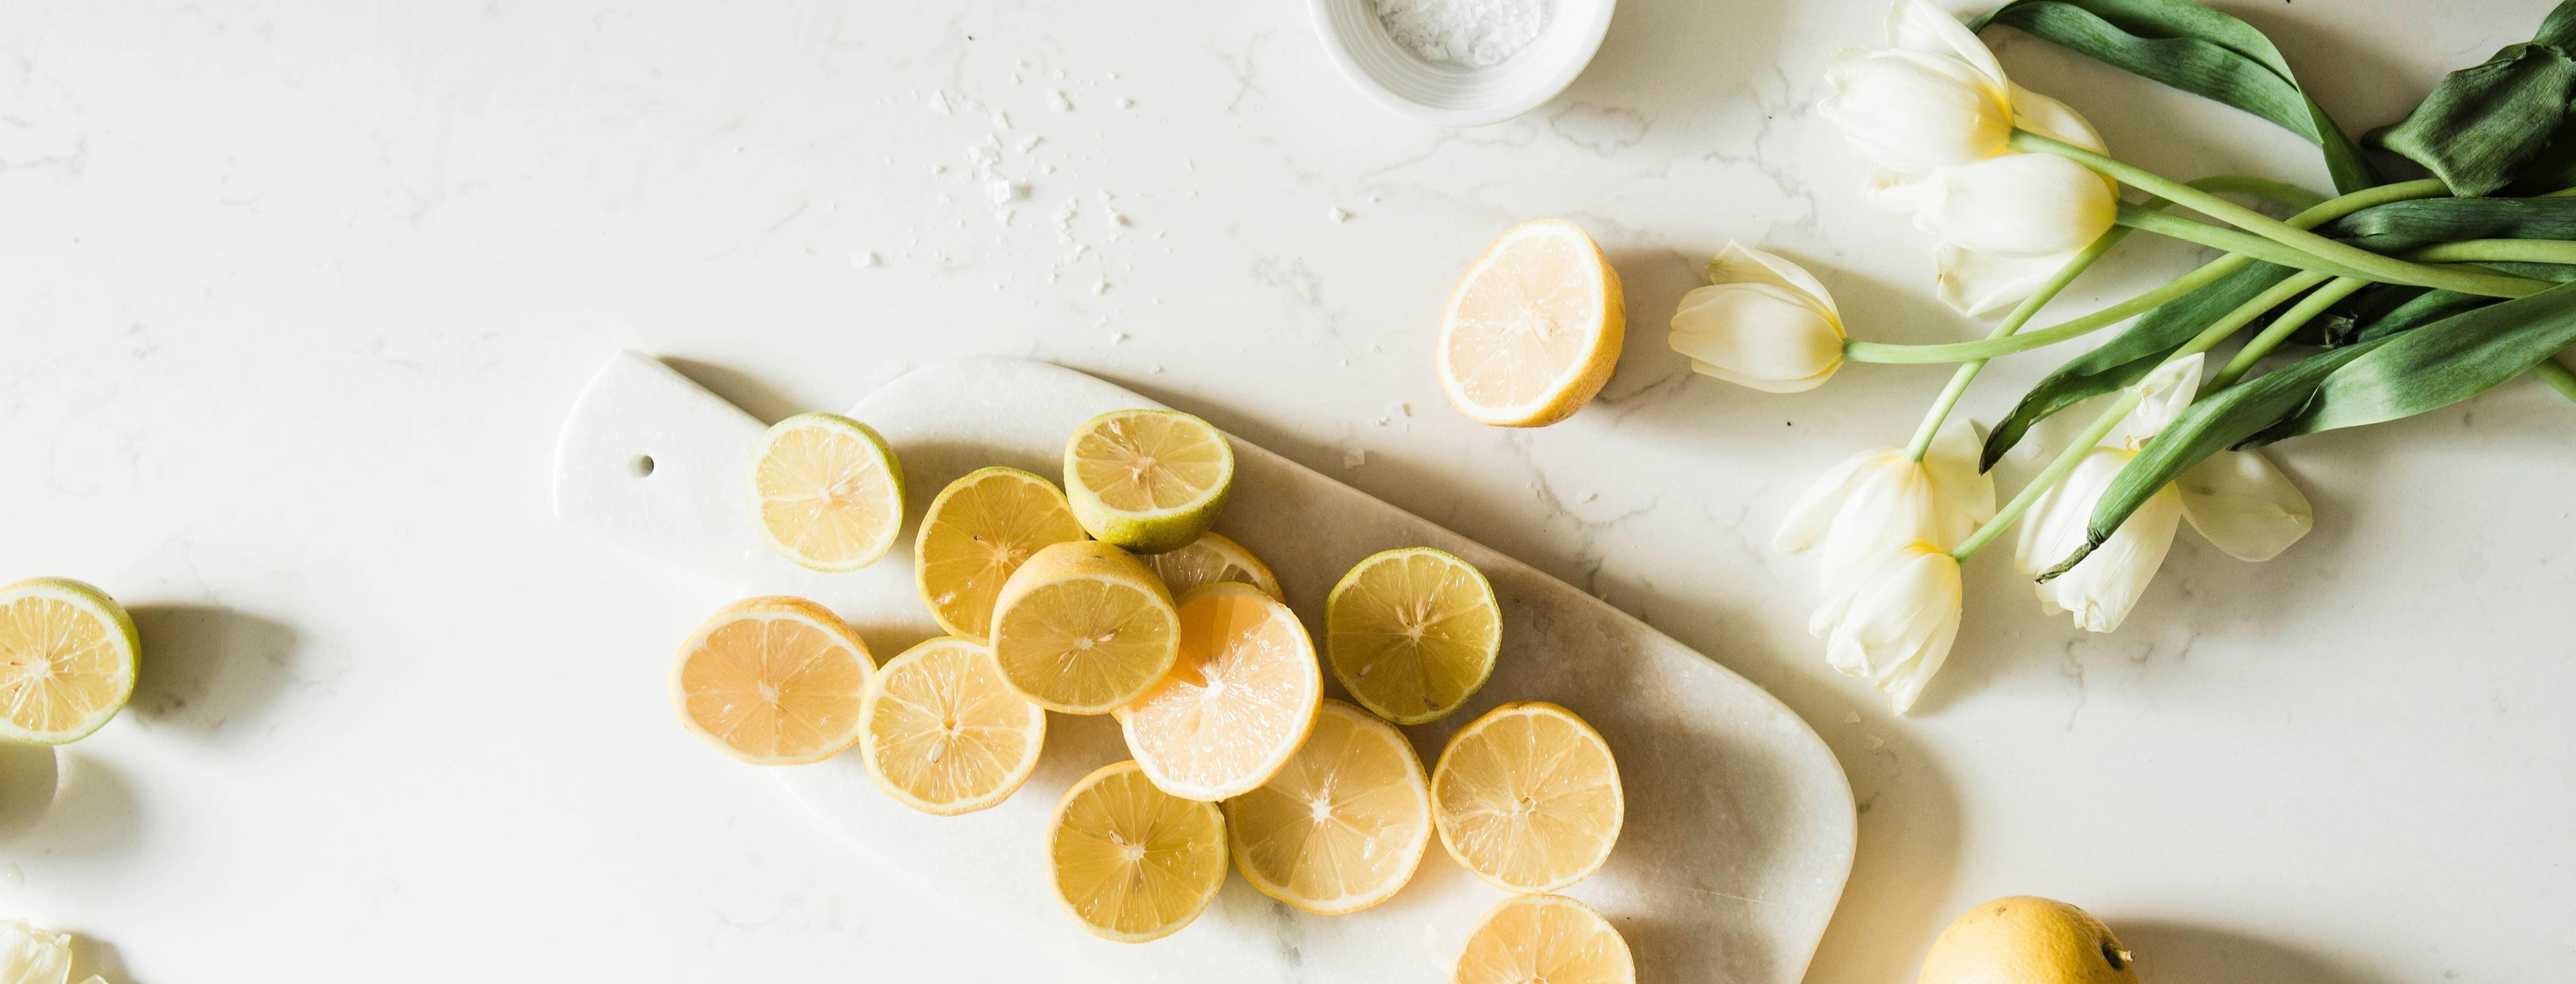
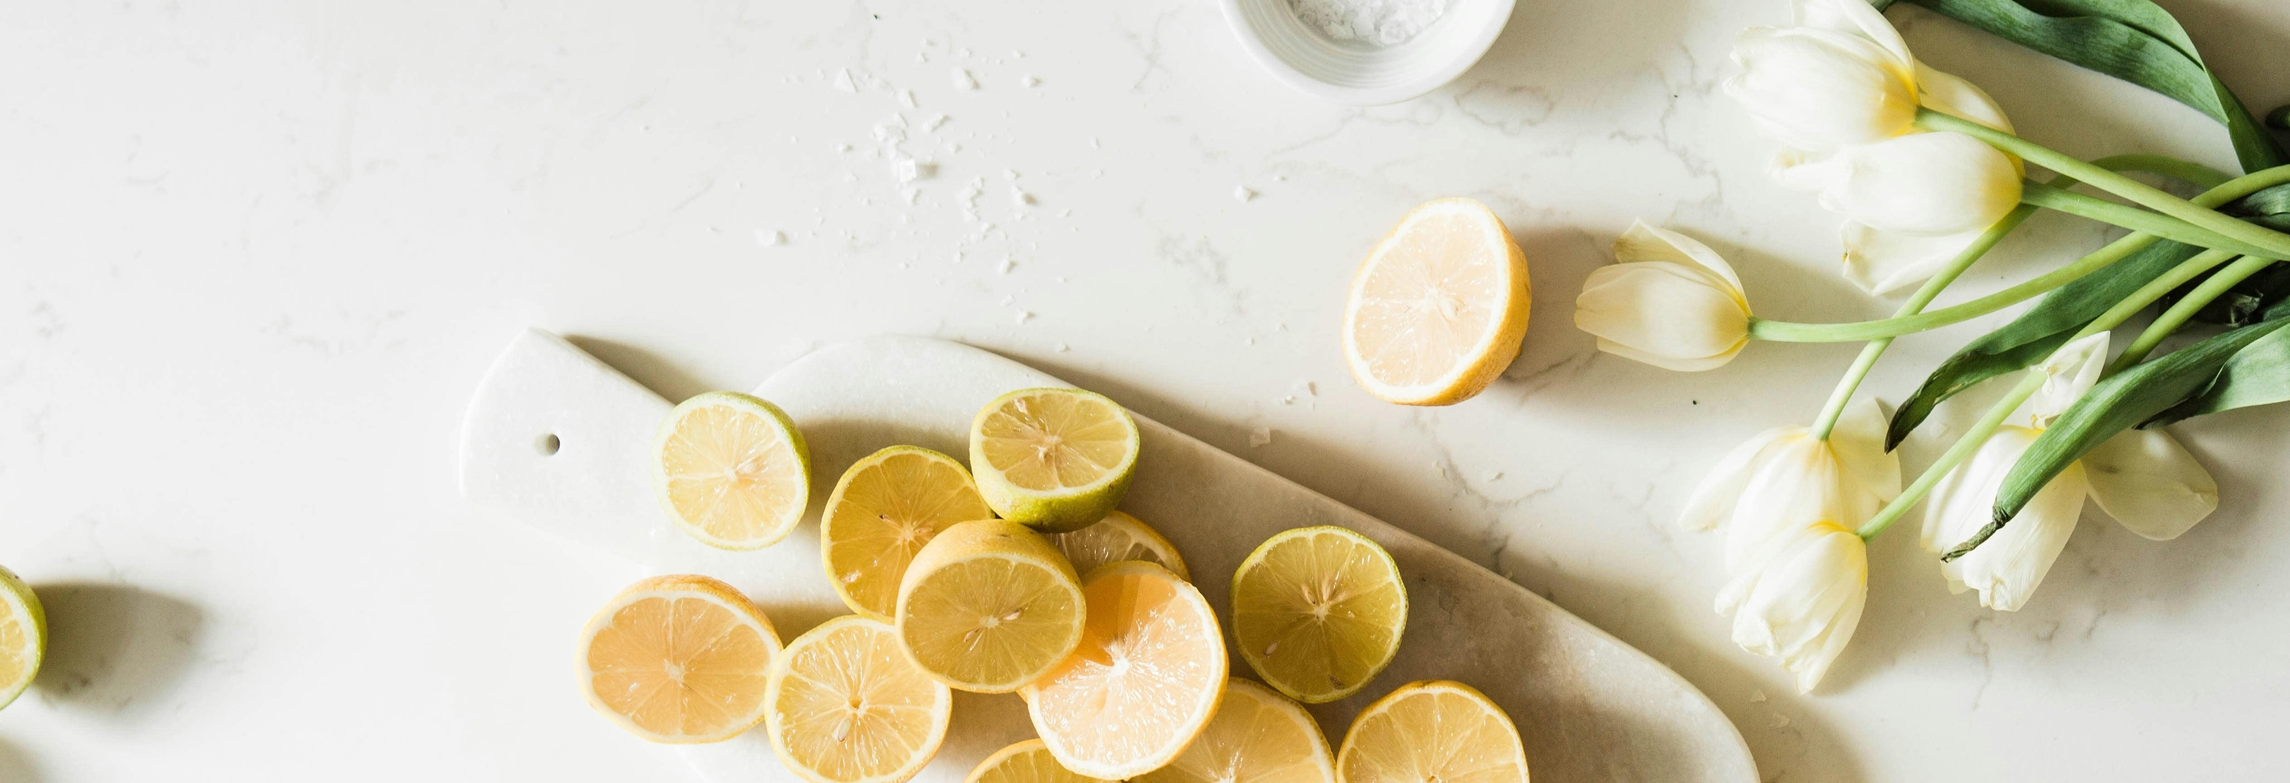
Switched pictures and added control buttons for user home page

diff --git a/client/src/routes/user/user.component.jsx b/client/src/routes/user/user.component.jsx
@@ -1,23 +1,33 @@
-import { UserContainer, UserRecipesContainer, UserOptionsContainer} from "./user.styles";
+import { UserContainer, UserRecipesContainer, UserOptionsContainer, UserOptions} from "./user.styles";
 import {useAuth0} from '@auth0/auth0-react';
 import {useNavigate} from 'react-router-dom';
 import RecipeContainer3 from "../../components/Recipe/recipe3.component";
 import Loader from "../../components/Loader/loader.component";
 import { useSelector } from "react-redux";
-import Background from '../../images/Background3.jpg';
+import Background from '../../images/Background2.jpg';
+import Profile from '../../images/Profile1.jpg'
 
 const UserHome = () => {
   const {user, isAuthenticated} = useAuth0();
   const navigate = useNavigate();
+  const buttonItems = [
+    
+    {id: 1, title: 'Create A Recipe', color: '#FFEFE6', action: 'createRecipe'},
+    {id: 2, title: 'Edit Comments', color: '#FFD3BA', action: 'editComments'}, 
+    {id: 3, title: 'Not in use', color: '#FAB38B', action: ''},
+    {id: 4, title: 'Not in use', color: '#EF8E58', action: ''}
+  ];
   
   const recipes = useSelector(state => state.user.userRecipes);
   const loading = useSelector(state => state.user.isLoading);
-    const createRecipe = () => {
-      navigate('/user/create')
+  const switchFunction = (action) => {
+    switch(action){
+      case 'createRecipe': navigate('/user/create'); break;
+      case  'editComments' : navigate('/user/comments'); break;
+      default: return;
     }
-    const editComments = () => {
-      navigate('/user/comments')
-    }
+  }
+
 
     return ( 
         <UserContainer>
@@ -30,20 +40,30 @@ const UserHome = () => {
           <img src={Background} alt="lemons background" />
           </div>
           <div className="userDiv">
-            <div>
+            <div className="userInfo">
+              <img src={Profile} alt="User Profile" style={{height: '150px', width: '150px', borderRadius: '50%'}}/>
           <h2>Welcome {user.nickname}</h2>
-          <div className="buttonDiv">
-          <button onClick={createRecipe}>Create a recipe</button>
-          <button onClick={editComments}>Edit Comments</button>
-          </div>
           </div>
           </div>
           </UserOptionsContainer>
+          <UserOptions>
+           
+            {buttonItems.map((button) => {
+            return <div key={button.id} style={{ backgroundColor:`${button.color}`}}>
+              <h3 onClick={() => switchFunction(button.action)}>{button.title}</h3>
+            </div>
+           })}
+       
+          </UserOptions>
+          
           <UserRecipesContainer>
           {recipes.map((r) => {
             return <RecipeContainer3 recipe={r}/>
           })}
            </UserRecipesContainer>
+     
+          
+           
           </>
           }
          </> :

diff --git a/client/src/routes/user/user.styles.jsx b/client/src/routes/user/user.styles.jsx
@@ -3,6 +3,7 @@ import styled from 'styled-components';
 export const UserContainer = styled.div`
     height: 100vh;
     width: 100vw;
+   // background-color: ${({theme}) => theme.colors.offWhite};
 `;
 
 export const UserOptionsContainer = styled.div`
@@ -25,22 +26,29 @@ export const UserOptionsContainer = styled.div`
     }
     img{
         width: 100%;
-        height: 100%;
+        height: 80%;
+        overflow: hidden;
     }
     .userDiv{
         width: 100%;
         height: 100%;
         display: flex;
         align-items: end;
-        padding: 1em;
         justify-content: space-between;
-        background-color: hsla(0, 0%, 100%, 0.2);
     }
-    .buttonDiv button{
-        margin-right: 1rem;
-    }  
+    .userInfo{
+        display: flex;
+        justify-content: center;
+        align-items: center;
+        gap: 1rem;
+        position: absolute;
+        top: 60%;
+        padding: 3rem;
+    }
+   
 `;
 export const UserRecipesContainer = styled.div`
+//border: 1px solid blue;
     display: flex;
     margin-inline: 1rem;
     gap: 1rem;
@@ -52,8 +60,37 @@ export const UserRecipesContainer = styled.div`
     text-align: center;
     top: 40%;
     align-items: center;
+    justify-content: center;
     padding-block: 0.5rem;
-    scrollbar-width: thin;
-    scrollbar-color: ${({theme}) => theme.colors.green} ${({theme}) => theme.colors.orange};
 `;
 
+export const UserOptions = styled.div`
+    display: flex;
+    margin-inline: 1rem;
+    gap: 1rem;
+    z-index: 4;
+    position: relative;
+    top: 37%;
+    padding-block: 1rem;
+    align-items: center;
+    justify-content: space-evenly;
+    overflow-x: scroll;
+    scrollbar-width: thin;
+    scrollbar-color: ${({theme}) => theme.colors.green} ${({theme}) => theme.colors.orange};
+    div{
+        height: 120px;
+        width: 300px;
+        border-radius:  5px;
+        display: flex;
+        justify-content: center;
+        align-items: center;
+        box-shadow: ${({theme}) => theme.colors.offWhite} 0px 2px 4px 0px, ${({theme}) => theme.colors.grey2} 0px 2px 16px 0px;
+    }
+    div:hover{
+        box-shadow: ${({theme}) => theme.colors.offWhite} 0px 2px 4px 0px, ${({theme}) => theme.colors.peachyPink} 0px 2px 16px 0px;
+        h2{
+            color: blue;
+        }
+    }
+
+`;

diff --git a/client/src/routes/home/home.component.jsx b/client/src/routes/home/home.component.jsx
@@ -5,7 +5,7 @@ import { MainDiv, BottomDiv, LeftMainDiv, RightMainDiv, HeroImage } from "./home
 //import { useCallback, useState, useEffect, useMemo } from "react";
 // import { httpGetAllRecipes, httpGetPopularRecipes } from "../../hooks/recipeRequests";
 import { useSelector } from "react-redux";
-import MainPicture from '../../images/Background2.jpg';
+import MainPicture from '../../images/Background3.jpg';
 import { useNavigate } from "react-router-dom";
 import Loader from "../../components/Loader/loader.component";
 
@@ -24,7 +24,7 @@ const HomePage = () => {
             <div className="text">
                 <h2>Discover your new</h2>
                 <br />
-                <h2 style={{color: 'hsl(29.122807017543863, 78.80184331797234%, 42.549019607843135%)'}}>Favorite Recipes</h2>
+                <h2 style={{color: 'hsl(83, 70%, 34%)'}}>Favorite Recipes</h2>
                 <button onClick={() => navigate('search')}>Find Recipes</button>
             </div>
         </HeroImage>
